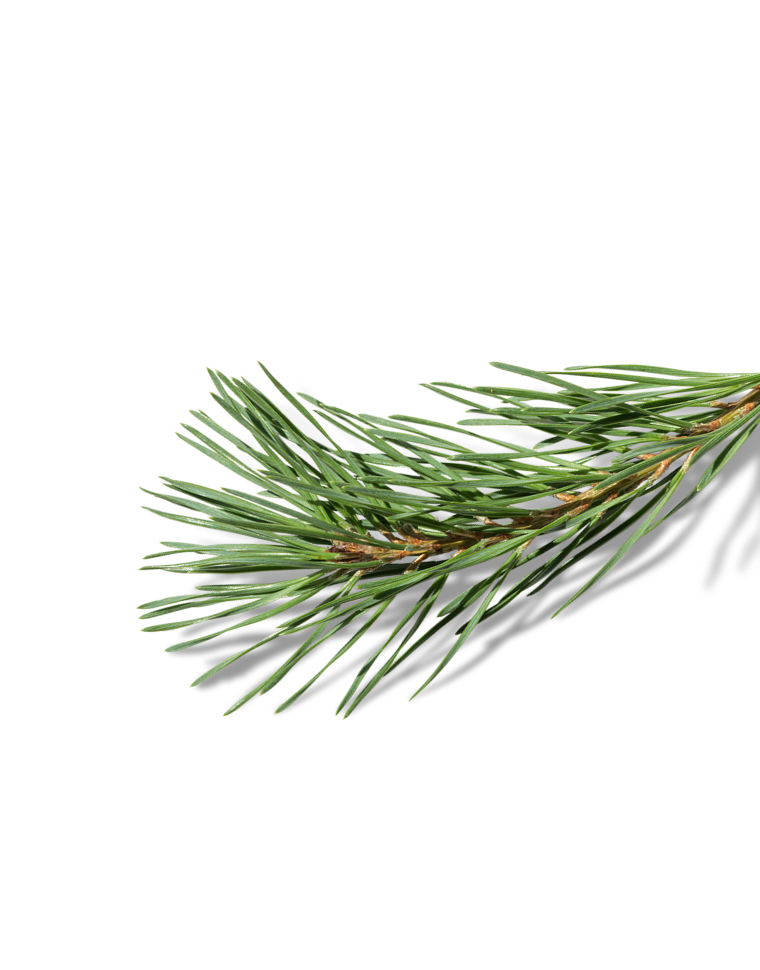
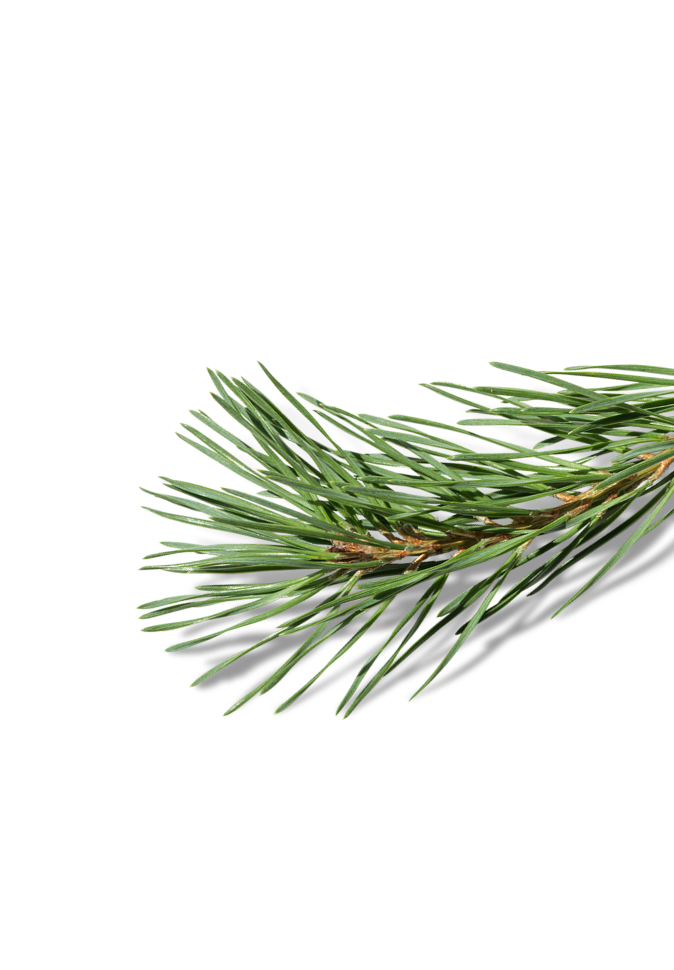
Update styles for fullhd resolution, fix some texts

Changed region(s): [[0.1869, 0.3711, 1.0, 0.7423]]

diff --git a/public/index.html b/public/index.html
@@ -39,7 +39,7 @@
 </div>
 <div>
 
-    <div style="width: 100%; position: relative">
+    <div style="width: 100%; position: relative; margin-top: 150px">
         <div class="text-center-container">
             <p class="text-block">Зеленый Оазис предоставляет услуги по комплексному ландшафтному
                 дизайну загородных участков в Санкт-Петербурге и ЛО.</p>
@@ -47,7 +47,7 @@
                 способный восстановить душевное равновесие, подарить радость и покой.</p>
         </div>
         <img class="clumba-image adaptive-image" src="images/clumba.png">
-        <img class="el-image adaptive-image" src="images/el.png" width="608" height="776">
+        <img class="el-image adaptive-image" src="images/el.png" width="518" height="776">
     </div>
 
     <h1 class="section-title text-center how-we-work">Как мы работаем?</h1>
@@ -55,18 +55,15 @@
         <div class="flex1">
             <div class="backfon">
 
-                <p class="flex1text1">Создание оригинального 3D проекта.<br><br> Мы бесплатно создадим для вас 3D проект
-                    с
-                    учетом особенностей вашего участка.</p>
+                <p class="flex1text1">Создание уникального проекта.<br><br> Мы создадим для Вас проект с учетом Ваших
+                    пожеланий и особенностей участка.</p>
                 <a href="#contact" class="green-btn">Заказать проект</a>
 
             </div>
         </div>
         <div class="flex2">
-            <div class="backfon"><p class="flex1text2">Подготовка территории, грубое выравнивание грунта.<br><br>
-                Прокладка
-                труб
-                и дренажных систем.<br><br> Тонкое выравнивание грунта</p></div>
+            <div class="backfon"><p class="flex1text2">Подготовка территории, грубое выравнивание грунта.<br><br>Прокладка
+                труб и дренажных систем.<br><br> Тонкое выравнивание грунта</p></div>
 
         </div>
         <div class="flex3">
@@ -162,9 +159,12 @@
             <input class="green-btn" type="submit" value="Отправить заявку"/>
         </form>-->
     <div class="form" id="contact">
-        <h1 class="section-title text-center text-white">Контакты</h1>
-        <h3 class="text-center text-white request-title">Отправьте заявку на бесплатный 3D проект</h3>
-        <p class="text-center text-white request-text">Мы свяжемся с Вами, и с удовольствием ответим на Ваши вопросы, а также расскажем о себе.</p>
+        <h1 class="contact-title section-title text-center text-white">Контакты</h1>
+        <!--<h3 class="text-center text-white request-title">Отправьте заявку на бесплатный 3D проект</h3>-->
+        <p class="text-white text-center" style="font-size: 32px; margin-bottom: -30px;">Остались вопросы?</p>
+        <p class="text-center text-white request-text"><br>
+            Заполните форму ниже<br>
+            и в ближайшее мы свяжемся с вами.</p>
         <form class="send-form">
             <input type="text" class="name-input" placeholder="Ваше имя" required name="name"
                    id="name"/>
@@ -175,7 +175,7 @@
                    id="about"/>
             <div style="width: 100%"></div>
 
-            <input class="green-btn" type="submit" value="Отправить заявку"/>
+            <input class="green-btn" style="margin: 45px; font-size: 20px" type="submit" value="Отправить заявку"/>
         </form>
     </div>
 

diff --git a/public/css/main.css b/public/css/main.css
@@ -63,7 +63,7 @@ a:hover {
     line-height: normal;
     text-align: center;
     color: #07370C;
-    padding: 0 10% 0 10%;
+    padding: 0 15% 0 15%;
     position: relative;
     z-index: 2;
 }
@@ -73,7 +73,7 @@ a:hover {
 }
 
 .how-we-work {
-    padding-top: 300px;
+    padding-top: 250px;
     font-family: Roboto, serif;
 }
 
@@ -87,9 +87,14 @@ a:hover {
     display: flex;
     flex-flow: row wrap;
     justify-content: center;
+    margin-top: 35px;
 }
 .text-white {
     color: white;
+}
+
+.contact-title {
+    padding: 20px;
 }
 
 .form {
@@ -104,6 +109,7 @@ a:hover {
     color: white;
     background-color: #1D5222;
     border-bottom: 2px solid white;
+    font-size: 18px;
 }
 
 ::placeholder { /* Firefox, Chrome, Opera */
@@ -126,6 +132,7 @@ a:hover {
     border: none;
     color: white;
     border-bottom: 2px solid white;
+    font-size: 18px;
 }
 
 .about-input {
@@ -134,6 +141,8 @@ a:hover {
     width: 620px;
     height: 30px;
     border: none;
+    font-size: 18px;
+    margin-top: 20px;
     border-bottom: 2px solid white;
 }
 
@@ -154,11 +163,8 @@ a:hover {
 }
 
 .flex1text1 {
-    padding-top: 75px;
-    padding-left: 51px;
-    padding-right: 54px;
-    padding-bottom: 74px;
-    font-family: Roboto;
+    padding: 75px 54px 74px 51px;
+    font-family: Roboto, serif;
     font-style: normal;
     font-weight: normal;
     font-size: 20px;
@@ -276,7 +282,7 @@ a:hover {
 
 .el-text {
     font-family: Roboto, serif;
-    font-size: 30px;
+    font-size: 20px;
     text-align: center;
     color: #FFFFFF;
 }
@@ -398,7 +404,6 @@ a:hover {
 .section-title {
     color: #1D5222;
     margin: 10px;
-    padding: 10px
 }
 
 .request-title {
@@ -406,8 +411,9 @@ a:hover {
 }
 
 .request-text {
-    font-size: 1.5rem;
+    font-size: 21px;
     text-decoration: none;
+    font-weight: 200;
 
 }
 
